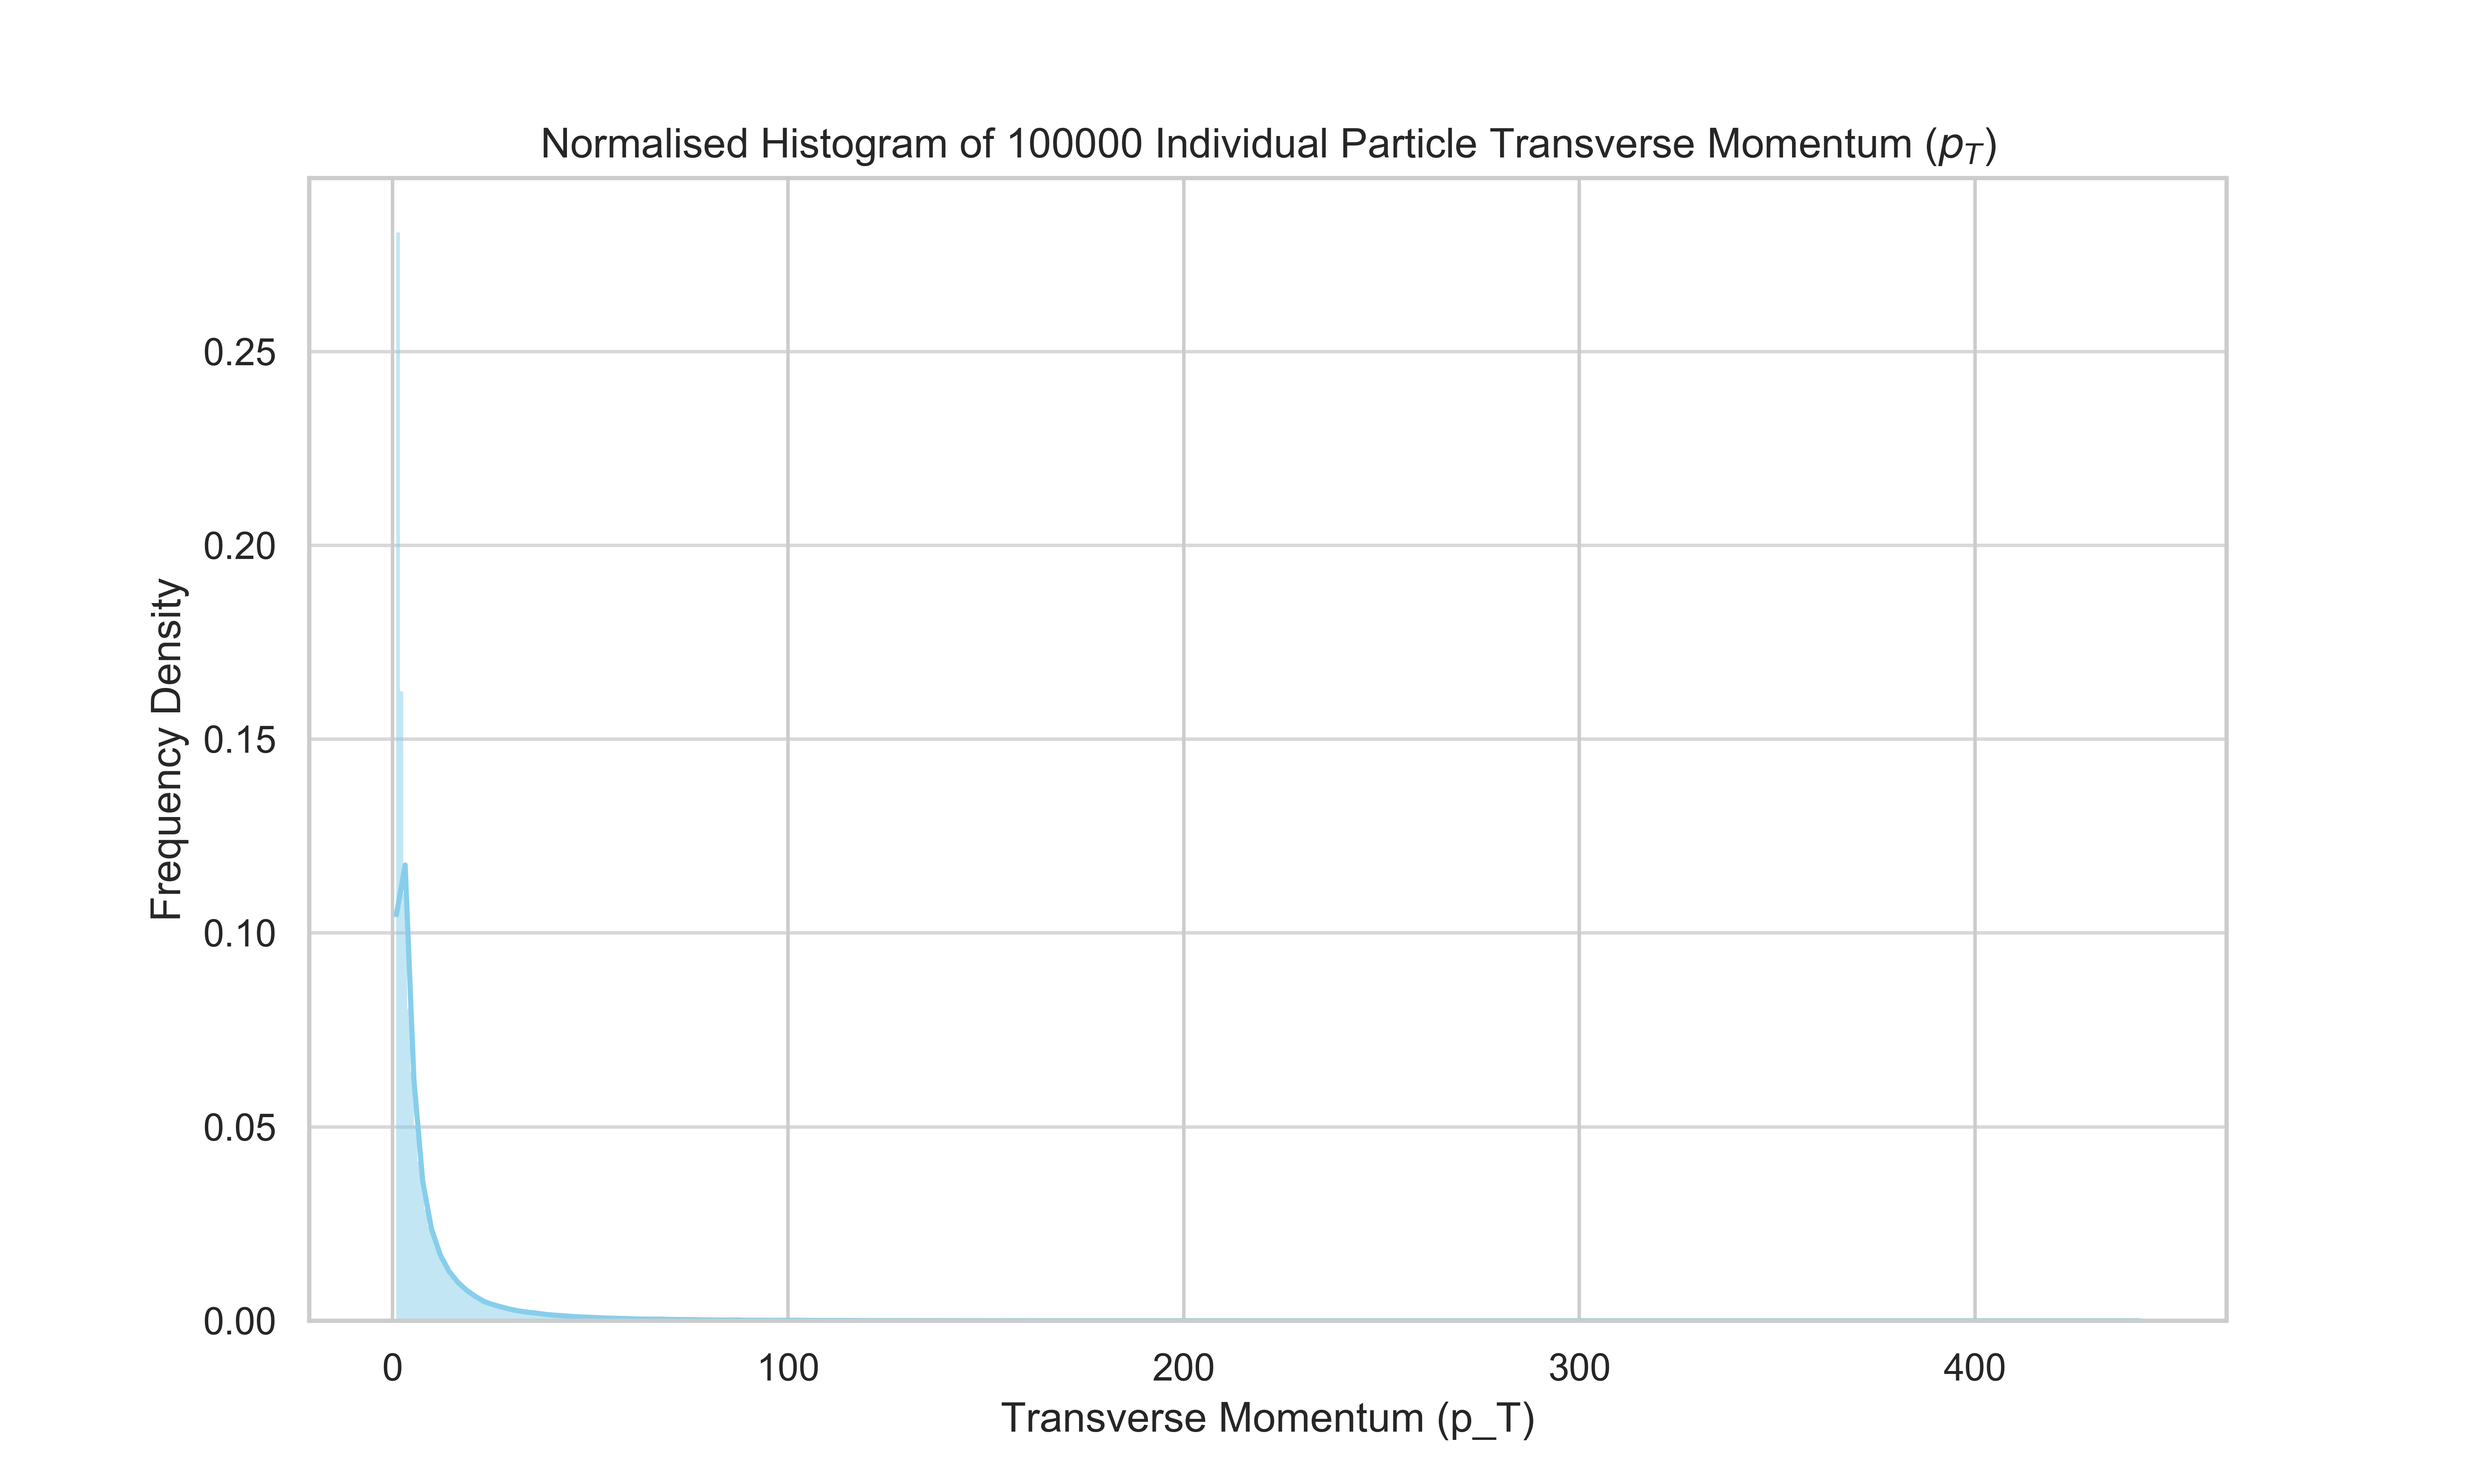
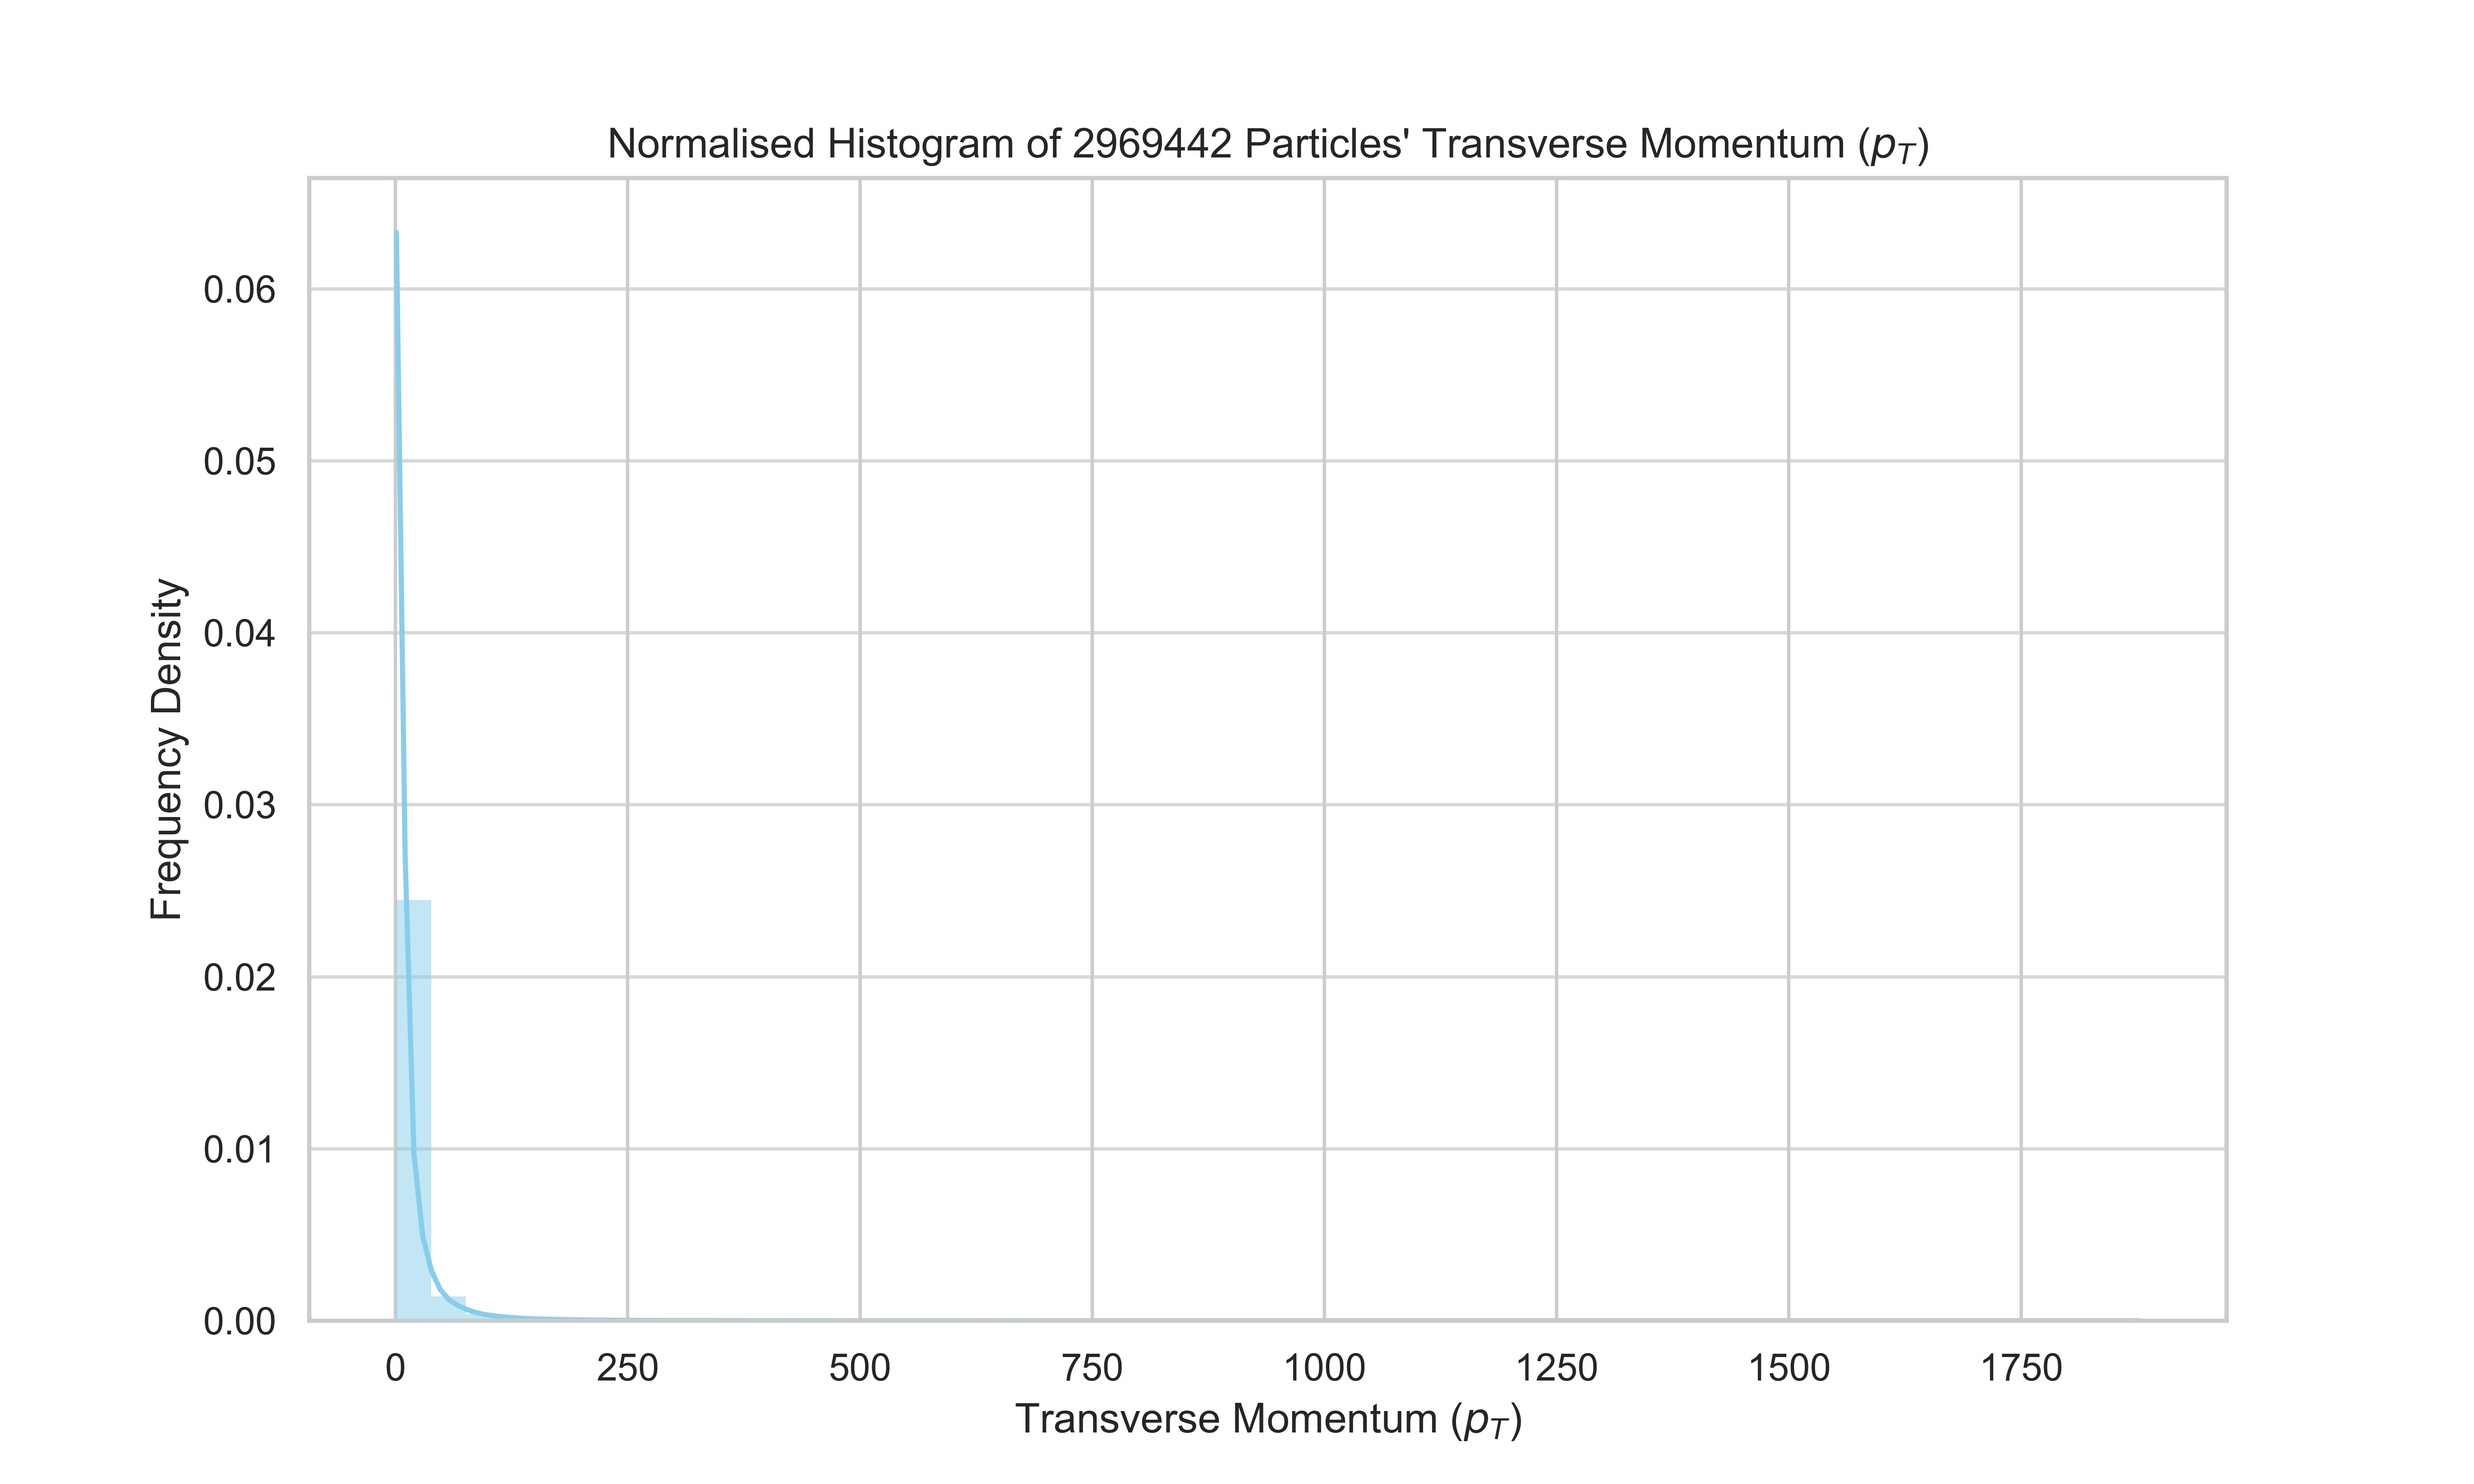
Tidy 1D histogram code. Plot 1D hists over all data.

diff --git a/src/main.py b/src/main.py
@@ -14,16 +14,16 @@ plt.rcParams["text.usetex"] = False  # Use LaTeX for rendering text
 plt.rcParams["font.size"] = 12  # Set default font size (optional)
 
 CWD = os.getcwd()
-file_path = f"{CWD}/data/1-initial/pileup.csv"
+pileup_path = f"{CWD}/data/1-initial/pileup.csv"
 tt_path = f"{CWD}/data/1-initial/ttbar.csv"
 
 # === BEGIN Reading in Data ===
-MAX_DATA_ROWS = 3_000_000
+MAX_DATA_ROWS = None
 pile_up = np.genfromtxt(
-    file_path, delimiter=",", encoding="utf-8", skip_header=1,
+    pileup_path, delimiter=",", encoding="utf-8", skip_header=1, max_rows=MAX_DATA_ROWS
 )
 tt = np.genfromtxt(
-    tt_path, delimiter=",", encoding="utf-8", skip_header=1,
+    tt_path, delimiter=",", encoding="utf-8", skip_header=1, max_rows=MAX_DATA_ROWS
 )
 
 
@@ -65,10 +65,6 @@ def normalize_data(data, norm):
     # Normalize the data
     normalized_data = data / norm
     return normalized_data
-
-
-
-
 
 def jet_axis(p):
     """
@@ -154,96 +150,6 @@ jet_no = 493
 # )
 
 #################################################################################
-
-# === 1D Histograms ===
-
-# Calculate particle momentum magnitudes and pseudorapidity
-# First
-num = len(tt)
-jet_ids = tt[:, 0]
-p_mag = p_magnitude(tt[:, 3:])
-pz, px, py = tt[:, 5], tt[:, 3], tt[:, 4]
-eta = pseudorapidity(p_mag, pz)
-p_T = np.sqrt(px**2 + py**2)
-# === BEGIN Calculating energy normalisation factor  ===
-# Massless limit, E^2 = p^2
-energies = np.sqrt(combined_data[:,3]*combined_data[:,3] + combined_data[:,4]*combined_data[:,4]+combined_data[:,5]*combined_data[:,5])
-energy_min = np.min(energies)
-energy_max = np.max(energies)
-energy_norm_denom = (energy_max - energy_min)
-# energy_norm_factor = l2_norm(energies)
-# print(energy_norm_factor)
-
-# jet_four_momenta = calculate_four_momentum_massless(jet_ids, px, py, pz)
-# jet_p2 = contraction(jet_four_momenta)
-# jet_masses = np.sqrt(jet_p2)
-
-# # Kinda fun to print
-# # for jet_id in range(0, len(jet_four_momenta), 132):
-# #     four_mmtm = jet_four_momenta[jet_id]
-# #     p2 = jet_p2[jet_id]
-# #     print(f"Jet ID: {jet_id}, Total 4-Momenta: [{four_mmtm[0]:.3f}, {four_mmtm[1]:.3f}, {four_mmtm[2]:.3f}, {four_mmtm[3]:.3f}], Contraction p^2: {p2:.3f}")
-
-# # Define the save path and plot characteristics
-# save_path = f"{CWD}/data/plots/data_exploration/"
-# plot_params = {
-#     "bins": 500,
-#     "color": "skyblue",
-#     "edgecolor": "none",
-#     "kde": True,
-#     "stat": "density"  # Equivalent to `density=True` in plt.hist
-# }
-
-# print("Plotting histograms...")
-# sb.set_theme(style="whitegrid")
-
-# # Histogram of momentum magnitudes
-# plt.figure(figsize=(10, 6))
-# sb.histplot(p_mag, **plot_params)
-# plt.title(f"Normalised Histogram of {num} Individual Particle Momentum Magnitudes")
-# plt.xlabel("Momentum Magnitude")
-# plt.ylabel("Frequency Density")
-# plt.grid(axis="y", alpha=0.75)
-# plt.savefig(f"{save_path}/p_mag.png", dpi=600)
-
-# # Histogram of pseudorapidity
-# plt.figure(figsize=(10, 6))
-# sb.histplot(eta, **plot_params)  # Adjust bins for eta
-# plt.title(f"Normalised Histogram of {num} Individual Particle Pseudorapidity ($\eta$)")
-# plt.xlabel("Pseudorapidity (η)")
-# plt.ylabel("Frequency Density")
-# plt.grid(axis="y", alpha=0.75)
-# plt.savefig(f"{save_path}/eta.png", dpi=600)
-
-# # Histogram of transverse momentum
-# plt.figure(figsize=(10, 6))
-# sb.histplot(p_T, **plot_params)
-# plt.title(f"Normalised Histogram of {num} Individual Particle Transverse Momentum ($p_T$)")
-# plt.xlabel("Transverse Momentum (p_T)")
-# plt.ylabel("Frequency Density")
-# plt.grid(axis="y", alpha=0.75)
-# plt.savefig(f"{save_path}/p_T.png", dpi=600)
-
-# # Histogram of p^2
-# plt.figure(figsize=(10, 6))
-# sb.histplot(jet_p2, **plot_params)
-# plt.title(f"Normalised Histogram of {len(jet_p2)} Jet ($p^2$)")
-# plt.xlabel("p2")
-# plt.ylabel("Frequency Density")
-# plt.grid(axis="y", alpha=0.75)
-# plt.savefig(f"{save_path}/jet_p2.png", dpi=600)
-
-
-# # Histogram of p^2
-# plt.figure(figsize=(10, 6))
-# sb.histplot(jet_masses, **plot_params)
-# plt.title(f"Normalised Histogram of {len(jet_p2)} Jet Mass")
-# plt.xlabel("Mass")
-# plt.ylabel("Frequency Density")
-# plt.grid(axis="y", alpha=0.75)
-# plt.savefig(f"{save_path}/jet_mass.png", dpi=600)
-
-
 
 # === 2D Histograms ===
 BINS = (16,16)

diff --git a/src/main_one_time.py b/src/main_one_time.py
@@ -1,0 +1,77 @@
+"""1D Histograms"""
+
+# Package imports
+import numpy as np
+import os
+import matplotlib.pyplot as plt
+import seaborn as sb
+
+# Local imports
+from calculate_quantities import *
+
+# ======= global matplotlib params =====
+sb.set_theme(style="whitegrid")
+plt.rcParams["text.usetex"] = False  # Use LaTeX for rendering text
+plt.rcParams["font.size"] = 12  # Set default font size (optional)
+
+CWD = os.getcwd()
+pileup_path = f"{CWD}/data/1-initial/pileup.csv"
+tt_path = f"{CWD}/data/1-initial/ttbar.csv"
+
+# === BEGIN Reading in Data ===
+MAX_DATA_ROWS = None
+pile_up = np.genfromtxt(
+    pileup_path, delimiter=",", encoding="utf-8", skip_header=1, max_rows=MAX_DATA_ROWS
+)
+tt = np.genfromtxt(
+    tt_path, delimiter=",", encoding="utf-8", skip_header=1, max_rows=MAX_DATA_ROWS
+)
+
+# Calculate quantities
+# Get data
+num = len(tt)
+jet_ids = tt[:, 0]
+p_mag = p_magnitude(tt[:, 3:])
+pz, px, py = tt[:, 5], tt[:, 3], tt[:, 4]
+# Basic stats
+eta = pseudorapidity(p_mag, pz)
+p_T = np.sqrt(px**2 + py**2)
+# Stats for jets
+jet_four_momenta = calculate_four_momentum_massless(jet_ids, px, py, pz)
+jet_p2 = contraction(jet_four_momenta)
+jet_mass = np.sqrt(jet_p2)
+
+# Kinda fun to print
+for jet_id in range(0, len(jet_four_momenta), 132):
+    four_mmtm = jet_four_momenta[jet_id]
+    p2 = jet_p2[jet_id]
+    print(f"Jet ID: {jet_id}, Total 4-Momenta: [{four_mmtm[0]:.3f}, {four_mmtm[1]:.3f}, {four_mmtm[2]:.3f}, {four_mmtm[3]:.3f}], Contraction p^2: {p2:.3f}")
+
+# Define the save path and plot characteristics
+save_path = f"{CWD}/data/plots/data_exploration/"
+plot_params = {
+    "bins": 50,
+    "color": "skyblue",
+    "edgecolor": "none",
+    "kde": True,
+    "stat": "density"  # Equivalent to `density=True` in plt.hist
+}
+
+def plot_1D_hist(name, data, is_jet=False, plot_params=plot_params, save_path=save_path, save_filename="out"):
+    parjet = "Jets'" if is_jet else "Particles'"
+    num = len(data)
+    plt.figure(figsize=(10, 6))
+    sb.histplot(p_mag, **plot_params)
+    plt.title(f"Normalised Histogram of {num} {parjet} {name}")
+    plt.xlabel(name)
+    plt.ylabel("Frequency Density")
+    plt.grid(axis="y", alpha=0.75)
+    plt.savefig(f"{save_path}/{save_filename}.png", dpi=600)
+
+print("Plotting histograms...")
+plot_1D_hist("Momentum Magnitudes",         p_mag,      save_filename="p_mag"                   )
+plot_1D_hist("Pseudorapidity ($\eta$)",     eta,        save_filename="p_mag"                   )
+plot_1D_hist("Transverse Momentum ($p_T$)", p_T,        save_filename="p_T"                     )
+plot_1D_hist("($p^2$)",                     jet_p2,     save_filename="jet_p2",     is_jet=True )
+plot_1D_hist("Mass",                        jet_mass,   save_filename="jet_mass",   is_jet=True )
+print("Done.")

diff --git a/src/visualisation.py b/src/visualisation.py
@@ -179,7 +179,7 @@ def plot_detections(
             circle = Circle((e, p), radius=radius/100, edgecolor="blue", facecolor='none', linewidth=linewidth, fill=False)
             ax.add_patch(circle)
 
-    plt.savefig(f"{cwd}/data/plots/test/{filename}.png", dpi=1000)
+    # plt.savefig(f"{cwd}/data/plots/test/{filename}.png", dpi=1000)
     plt.savefig(f"{cwd}/data/plots/test/{filename}.pdf",)
     plt.close()
 
